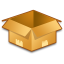
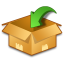
ordini eseguibili da referenti per tutti gli utenti; correzione gestione valori nulli per categorie e misure dei prodotti

diff --git a/src/org/barberaware/client/OrdersPanel.java b/src/org/barberaware/client/OrdersPanel.java
@@ -96,19 +96,64 @@ public class OrdersPanel extends GenericPanel {
 	}
 
 	private Widget doOrderRow ( Order order ) {
-		FromServerForm ver;
+		final FromServerForm ver;
 		OrderUser uorder;
+		User current_user;
 		ProductsUserSelection products;
 
 		uorder = new OrderUser ();
 		uorder.setObject ( "baseorder", order );
 
-		/**
-			TODO	Validare l'utente sul lato server
-		*/
-		uorder.setObject ( "baseuser", Session.getUser () );
+		current_user = Session.getUser ();
 
-		ver = new FromServerForm ( uorder );
+		ver = new FromServerForm ( uorder, FromServerForm.EDITABLE_UNDELETABLE );
+
+		if ( current_user.getInt ( "privileges" ) == User.USER_COMMON ) {
+			/**
+				TODO	Validare l'utente sul lato server
+			*/
+			uorder.setObject ( "baseuser", current_user );
+		}
+		else {
+			HorizontalPanel pan;
+
+			pan = new HorizontalPanel ();
+			pan.add ( new Label ( "Ordine eseguito a nome di " ) );
+
+			/**
+				TODO	Quando viene selezionato un utente, caricare eventuali
+					dati dell'ordine gia' eseguito
+			*/
+
+			pan.add ( ver.getWidget ( "baseuser" ) );
+			ver.add ( pan );
+
+			ver.setCallback ( new FromServerFormCallbacks () {
+				public void onSave ( FromServerForm form ) {
+					/* dummy */
+				}
+
+				public void onReset ( FromServerForm form ) {
+					/* dummy */
+				}
+
+				public void onDelete ( FromServerForm form ) {
+					/* dummy */
+				}
+
+				public void onClose ( FromServerForm form ) {
+					FromServerSelector user;
+					ProductsUserSelection products;
+
+					user = ( FromServerSelector ) form.retriveInternalWidget ( "baseuser" );
+					user.setValue ( null );
+
+					products = ( ProductsUserSelection ) form.retriveInternalWidget ( "products" );
+					products.setElements ( null );
+				}
+			} );
+		}
+
 		products = new ProductsUserSelection ( order.getArray ( "products" ) );
 		ver.add ( ver.getPersonalizedWidget ( "products", products ) );
 

diff --git a/src/org/barberaware/client/ProductsEditPanel.java b/src/org/barberaware/client/ProductsEditPanel.java
@@ -90,6 +90,7 @@ public class ProductsEditPanel extends Composite {
 					FromServerForm ver;
 					HorizontalPanel hor;
 					FlexTable fields;
+					FromServerSelector select;
 
 					ver = new FromServerForm ( product );
 
@@ -102,11 +103,13 @@ public class ProductsEditPanel extends Composite {
 					fields.setWidget ( 0, 0, new Label ( "Nome" ) );
 					fields.setWidget ( 0, 1, ver.getWidget ( "name" ) );
 
+					select = new FromServerSelector ( "Category", true );
 					fields.setWidget ( 1, 0, new Label ( "Categoria" ) );
-					fields.setWidget ( 1, 1, ver.getWidget ( "category" ) );
+					fields.setWidget ( 1, 1, ver.getPersonalizedWidget ( "category", select ) );
 
+					select = new FromServerSelector ( "Measure", true );
 					fields.setWidget ( 2, 0, new Label ( "Unità di misura" ) );
-					fields.setWidget ( 2, 1, ver.getWidget ( "measure" ) );
+					fields.setWidget ( 2, 1, ver.getPersonalizedWidget ( "measure", select ) );
 
 					fields.setWidget ( 3, 0, new Label ( "Ordinabile" ) );
 					fields.setWidget ( 3, 1, ver.getWidget ( "available" ) );

diff --git a/src/org/barberaware/client/FromServerSelector.java b/src/org/barberaware/client/FromServerSelector.java
@@ -32,14 +32,15 @@ public class FromServerSelector extends ObjectWidget {
 	private FromServerValidateCallback		filterCallback;
 	private DelegatingChangeListenerCollection	changeListeners;
 
-	public FromServerSelector ( String t ) {
+	public FromServerSelector ( String t, boolean hide_void ) {
 		main = new ListBox ();
 		initWidget ( main );
 
 		type = t;
 		filterCallback = null;
 
-		main.addItem ( "Nessuno", "0" );
+		if ( hide_void == false )
+			main.addItem ( "Nessuno", "0" );
 
 		Utils.getServer ().onObjectEvent ( type, new ServerObjectReceive () {
 			public void onReceive ( FromServer object ) {
@@ -120,7 +121,8 @@ public class FromServerSelector extends ObjectWidget {
 		String sel;
 
 		if ( selected == null )
-			main.setItemSelected ( 0, true );
+			if ( main.getItemCount () != 0 )
+				main.setItemSelected ( 0, true );
 
 		else {
 			num = main.getItemCount ();

diff --git a/src/org/barberaware/client/OrdersEditPanel.java b/src/org/barberaware/client/OrdersEditPanel.java
@@ -56,6 +56,10 @@ public class OrdersEditPanel extends GenericPanel {
 						public void onDelete ( FromServerForm form ) {
 							/* dummy */
 						}
+
+						public void onClose ( FromServerForm form ) {
+							/* dummy */
+						}
 					} );
 
 					hor = new HorizontalPanel ();
@@ -120,6 +124,10 @@ public class OrdersEditPanel extends GenericPanel {
 						}
 
 						public void onDelete ( FromServerForm form ) {
+							/* dummy */
+						}
+
+						public void onClose ( FromServerForm form ) {
 							/* dummy */
 						}
 					} );
@@ -426,7 +434,7 @@ public class OrdersEditPanel extends GenericPanel {
 	}
 
 	public Image getIcon () {
-		return new Image ( "images/path_orders.png" );
+		return new Image ( "images/path_orders_edit.png" );
 	}
 
 	public void initView () {

diff --git a/src/org/barberaware/client/FromServerForm.java b/src/org/barberaware/client/FromServerForm.java
@@ -60,6 +60,10 @@ public class FromServerForm extends Composite {
 			public void onDelete ( FromServerForm form ) {
 				/* dummy */
 			}
+
+			public void onClose ( FromServerForm form ) {
+				/* dummy */
+			}
 		};
 
 		main = new DisclosurePanel ( doSummary ( object ) );
@@ -72,6 +76,8 @@ public class FromServerForm extends Composite {
 					else
 						resetObject ();
 				}
+
+				onCloseCb ();
 			}
 
 			public void onOpen ( DisclosureEvent event ) {
@@ -227,6 +233,10 @@ public class FromServerForm extends Composite {
 
 	private void onOpenCb () {
 		// DOM.scrollIntoView ( main.getElement () );
+	}
+
+	private void onCloseCb () {
+		callbacks.onClose ( this );
 	}
 
 	/****************************************************************** build */

diff --git a/src/org/barberaware/client/PasswordBox.java b/src/org/barberaware/client/PasswordBox.java
@@ -113,9 +113,12 @@ public class PasswordBox extends Composite implements StringWidget {
 
 	public void setValue ( String value ) {
 		/*
-			Il campo della password non puo' essere riempito con un qualche valore
-			esistente: sul lato server si provvede a verificare poi se la stringa e'
-			vuota o piena, e si salva opportunamente il valore
+			Il campo della password viene lasciato volutamente vuoto:
+
+			1) se la password non viene modificata al server deve essere passata una
+				stringa vuota affinche' non faccia nulla
+			2) in questo modo appare chiaro (campo pieno / campo vuoto) se il
+				contenuto e' stato editato o meno
 		*/
 	}
 

diff --git a/src/org/barberaware/client/FromServer.java b/src/org/barberaware/client/FromServer.java
@@ -266,6 +266,15 @@ public abstract class FromServer {
 		return null;
 	}
 
+	/*
+		A futura memoria: avevo pensato di aggiungere una funzione mayBeNull() che di
+		default tornasse true e potesse essere reimplementata dai singoli oggetti, ma
+		questo genere di informazione non puo' essere gestito globalmente ed
+		universalmente ma nel singolo contesto. Dunque, i singoli widget che
+		rappresentano dei FromServer permettono di avere o non avere l'opzione che
+		indichi "null"
+	*/
+
 	/****************************************************************** set */
 
 	public void setString ( String name, String value ) {

diff --git a/src/org/barberaware/client/FromServerWidget.java b/src/org/barberaware/client/FromServerWidget.java
@@ -93,12 +93,13 @@ public class FromServerWidget extends Composite {
 		else if ( type == FromServer.ADDRESS )
 			wid = new AddressSelector ();
 
-		/*
-			Il tipo FromServer.ARRAY non viene gestito direttamente
-		*/
-
 		else if ( type == FromServer.OBJECT )
-			wid = new FromServerSelector ( object.getClassName ( attribute ) );
+			wid = new FromServerSelector ( object.getClassName ( attribute ), false );
+
+		/*
+			Il tipo FromServer.ARRAY non viene gestito direttamente, occorre
+			implementare un FromServerArray
+		*/
 
 		initWidget ( wid );
 		set ( object );

diff --git a/src/org/barberaware/client/OrderUser.java b/src/org/barberaware/client/OrderUser.java
@@ -33,4 +33,14 @@ public class OrderUser extends FromServer {
 		addAttribute ( "baseorder", FromServer.OBJECT, Order.class );
 		addAttribute ( "products", FromServer.ARRAY, ProductUser.class );
 	}
+
+	/*
+		Un OrderUser e' sempre valido, o meglio esiste anche se non e' salvato sul
+		server. Questo perche' anche se non viene avanzata nessuna richiesta per un dato
+		Order di riferimento comunque l'oggetto e' valido in quanto puo' essere editato
+		in un qualsiasi altro momento
+	*/
+	public boolean isValid () {
+		return true;
+	}
 }

diff --git a/src/org/barberaware/client/MainStack.java b/src/org/barberaware/client/MainStack.java
@@ -39,12 +39,14 @@ public class MainStack extends Composite {
 			main.add ( new UsersPanel () );
 			main.add ( new SuppliersEditPanel () );
 			main.add ( new OrdersEditPanel () );
+			main.add ( new OrdersPanel () );
 			main.add ( new SystemPanel () );
 		}
 
 		else if ( privileges == User.USER_RESPONSABLE ) {
 			main.add ( new SuppliersEditPanel () );
 			main.add ( new OrdersEditPanel () );
+			main.add ( new OrdersPanel () );
 			main.add ( new SystemPanel () );
 		}
 

diff --git a/src/org/barberaware/client/SystemPanel.java b/src/org/barberaware/client/SystemPanel.java
@@ -84,6 +84,10 @@ public class SystemPanel extends GenericPanel {
 			public void onDelete ( FromServerForm form ) {
 				/* dummy */
 			}
+
+			public void onClose ( FromServerForm form ) {
+				/* dummy */
+			}
 		} );
 
 		fields = new FlexTable ();

diff --git a/src/org/barberaware/client/FromServerFormCallbacks.java b/src/org/barberaware/client/FromServerFormCallbacks.java
@@ -21,4 +21,5 @@ public interface FromServerFormCallbacks {
 	public void onSave ( FromServerForm form );
 	public void onReset ( FromServerForm form );
 	public void onDelete ( FromServerForm form );
+	public void onClose ( FromServerForm form );
 }
